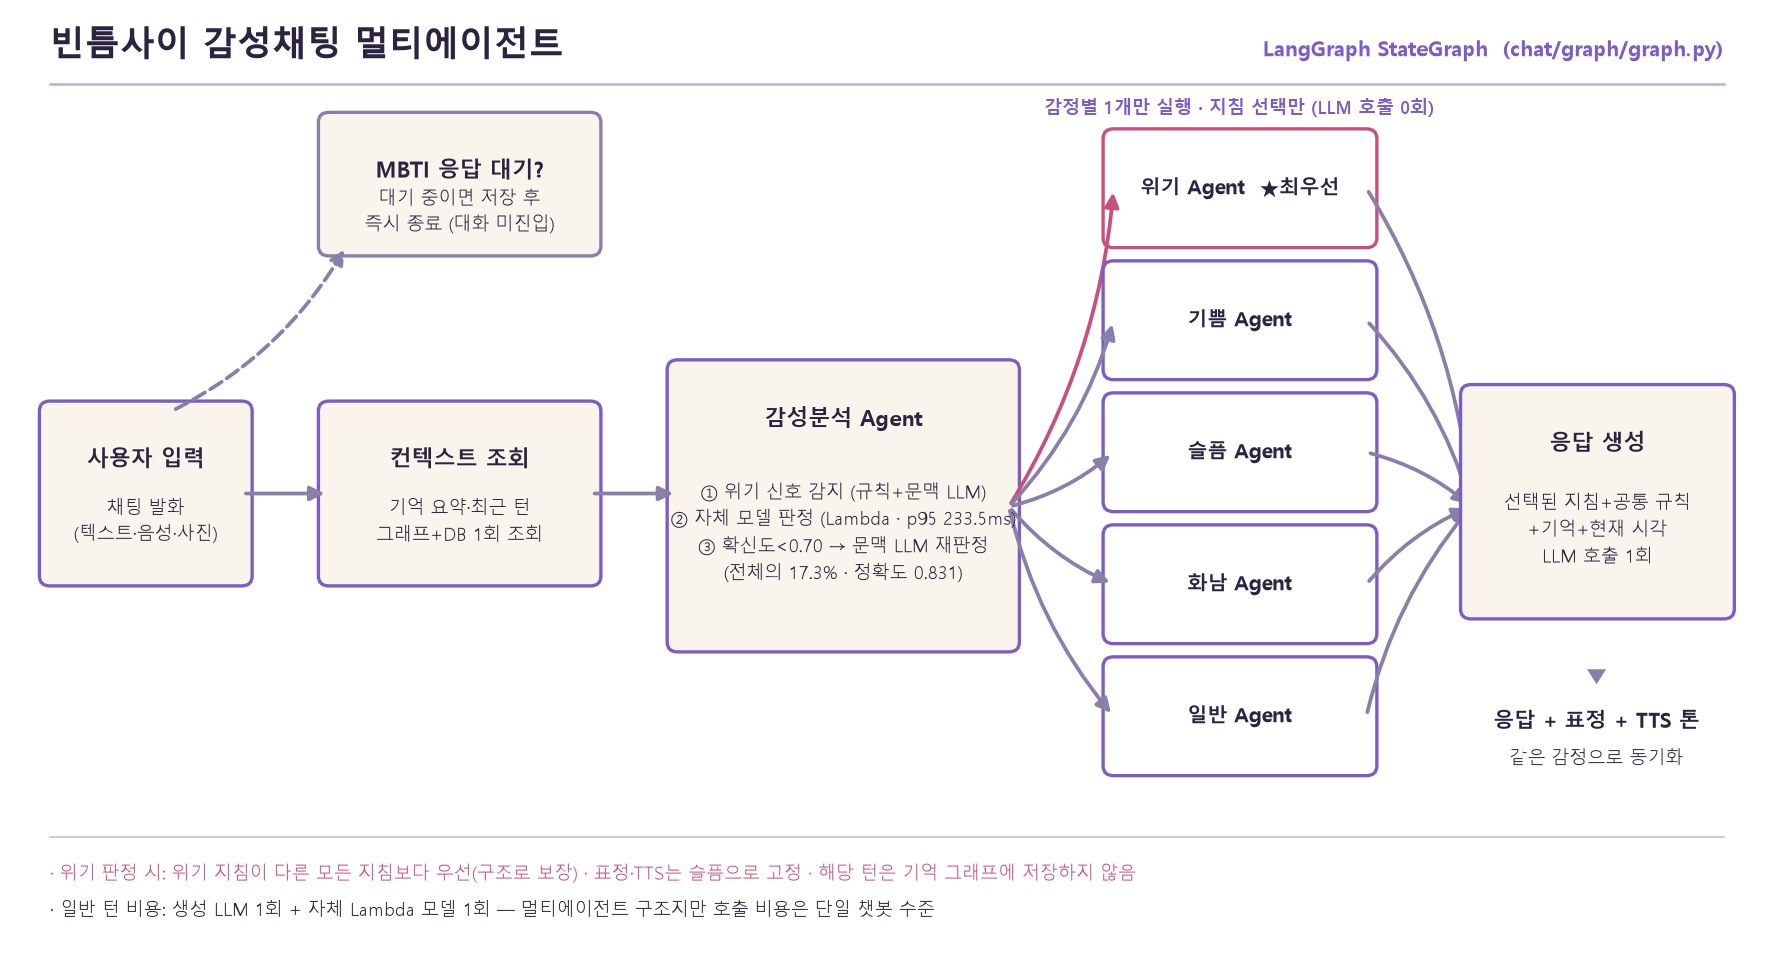
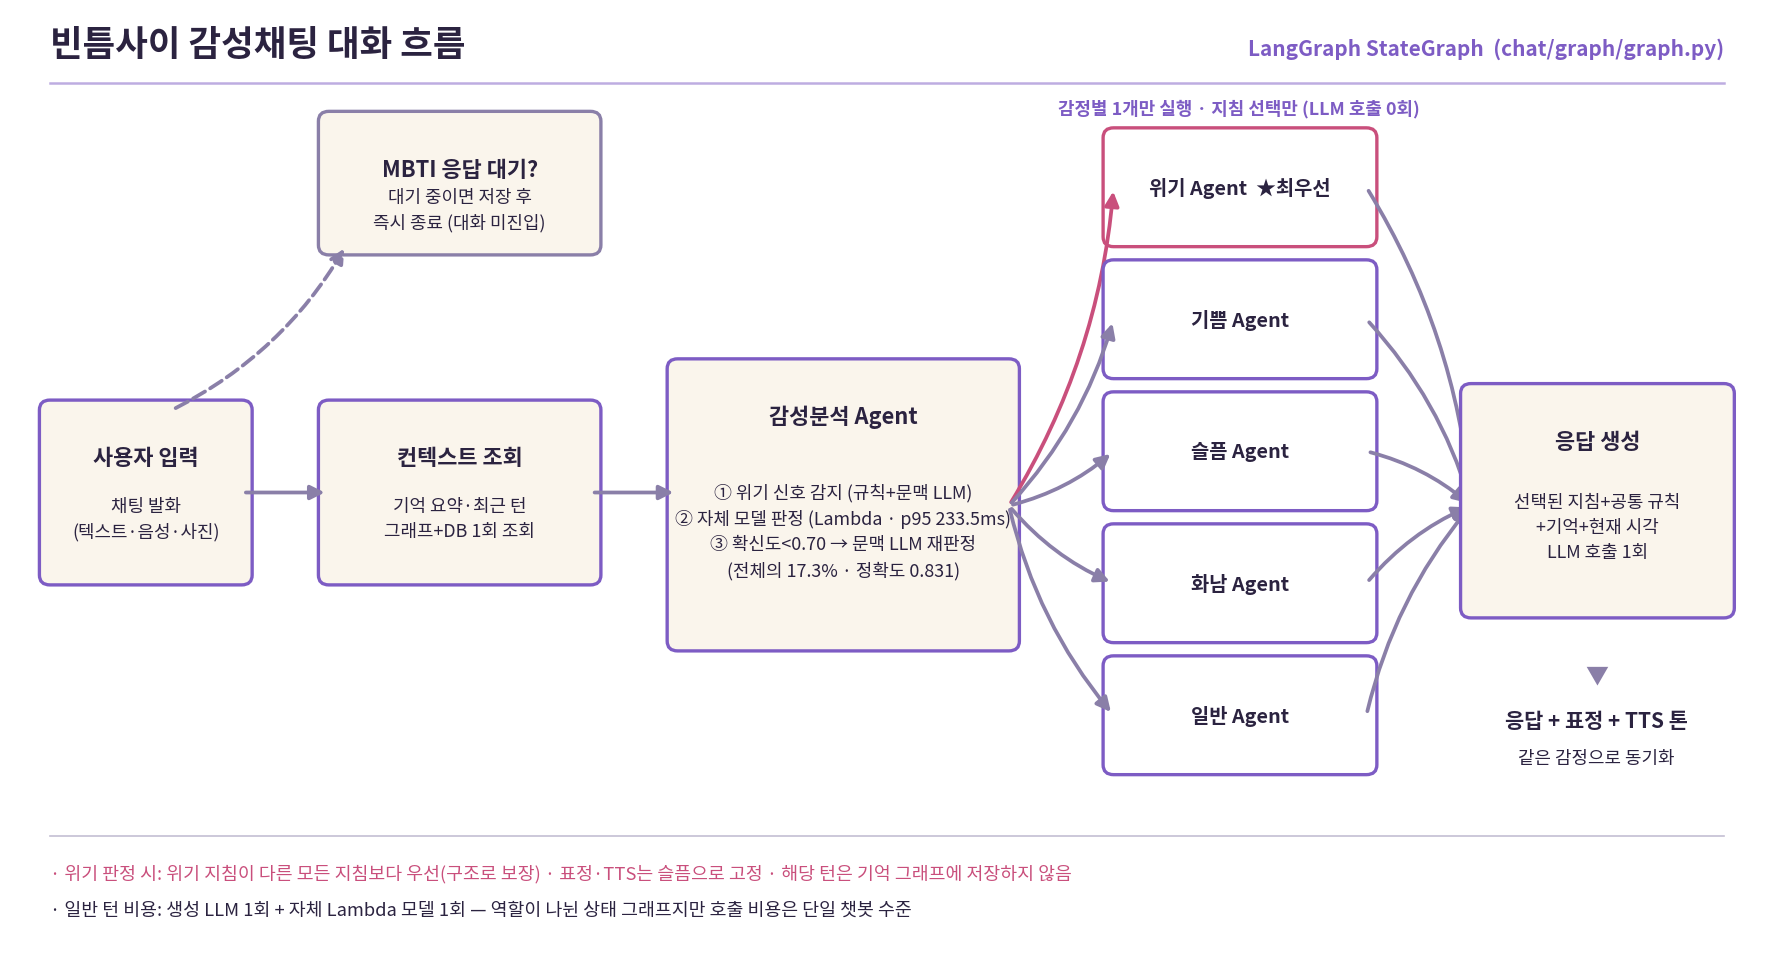
docs: 팀 소개 담당 상세화, 챗봇 흐름도 용어 정정(상태 그래프)

diff --git a/README.md b/README.md
@@ -34,7 +34,7 @@
 
 | 이름 | 역할 | 주요 담당 |
 |---|---|---|
-| **김한솔** 👑 | PM | 프로젝트 기획·관리, AI 감정 분류 모델 개발, 데이터 수집·전처리, 백엔드, 인프라 배포·운영 |
+| **김한솔** 👑 | PM | 프로젝트 총괄(기획·관리), 감정 분류 모델(데이터 수집·전처리, KcELECTRA 파인튜닝 실험 3종, Lambda 서빙), LangGraph 감성채팅 대화 흐름(감정별 응답 분기·위기 대응·확신도 게이트), Neo4j 그래프 장기기억, TTS·STT, 채팅 보안(암호화·PII 마스킹·시크릿챗), AWS 인프라·CI/CD 배포·운영, 서비스 테스트·검증 총괄 |
 | **한재웅** | APM | 프로젝트 기획·관리, DB·시스템 설계, 프론트엔드·백엔드, 문서화 및 산출물 관리 (마이페이지·MBTI 분석) |
 | **이성진** | Frontend / Backend | 온보딩·로그인·캐릭터 선택·타로 운세·감정 캘린더 화면 UI/UX 구현, 백엔드 연동, 데이터 흐름 설계 |
 | **박송원** | AI / Backend | 프로젝트 기획·관리, 백엔드, AI 모델 개발 (마음 리포트 분석 파이프라인) |
